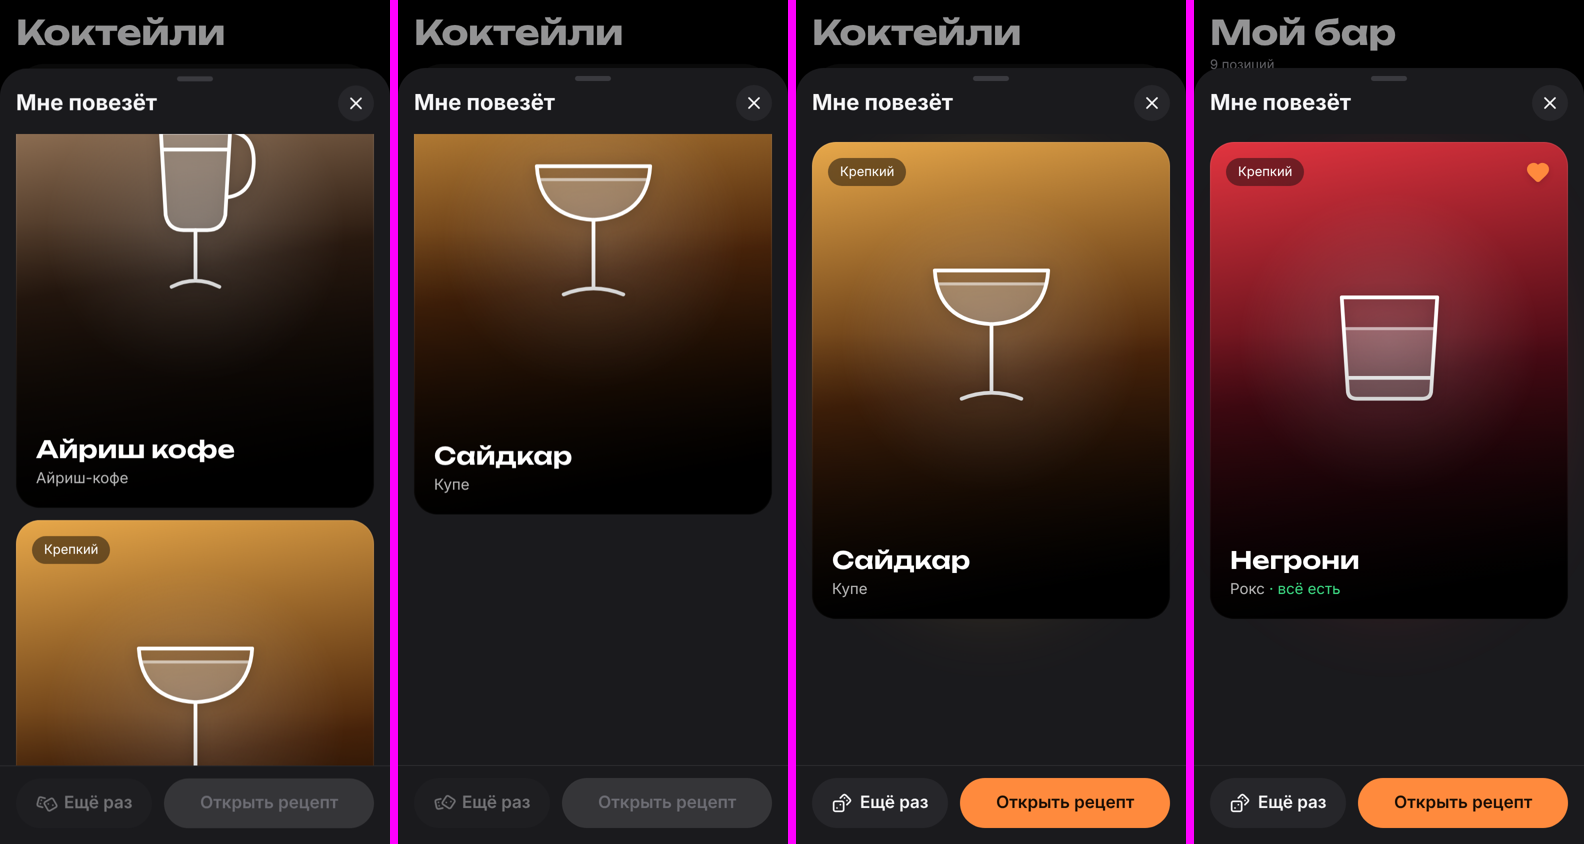
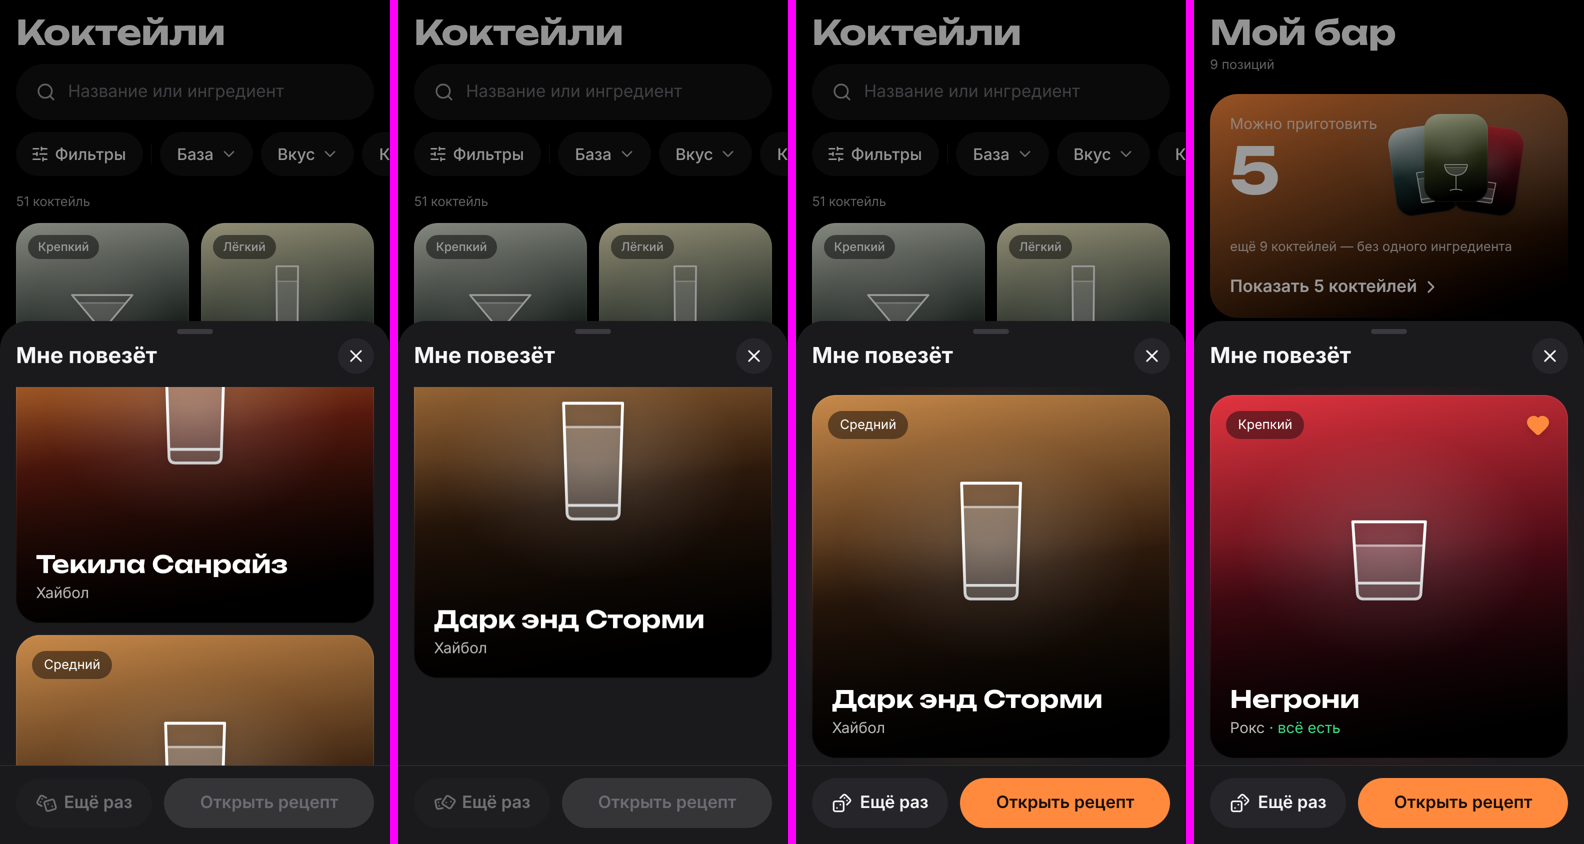
«Мне повезёт»: карточка на всю ширину, но прежней высоты
- h-lucky-card (min(400, 62svh − 160)) вместо 3:4 — карточка не огромная, шторка снова medium.

Claude-Session: https://claude.ai/code/session_01CTSLijoM8Di1TL7d1o52Nz

diff --git a/src/components/ui/LuckyReel.tsx b/src/components/ui/LuckyReel.tsx
@@ -22,7 +22,8 @@ const SPIN_MS = 900;
 const reduced = () => typeof window !== 'undefined' && window.matchMedia?.('(prefers-reduced-motion: reduce)').matches;
 
 /**
- * «Мне повезёт» — барабан **карточками**: та же карточка, что в каталоге (CocktailCard large), на всю ширину.
+ * «Мне повезёт» — барабан **карточками**: та же карточка, что в каталоге (CocktailCard large), на всю ширину,
+ * высота — `h-lucky-card` (не 3:4: иначе карточка огромная).
  * Спин — отдельные карточки с зазором 12 проезжают сверху вниз ~900 мс (видны целиком, не в окне) и тормозят
  * с перелётом и отскоком (--ease-spring); за выпавшей — свечение цветом напитка. Один вариант — «pop»;
  * reduced-motion — без анимации. Лента прижата низом: остальные карточки выше выпавшей (не растят прокрутку).
@@ -74,14 +75,14 @@ export function LuckyReel({ current, strip, spinKey, onSettle, onSpin, isAvailab
   const frameStyle = frame !== undefined ? { transform: `translateY(calc(${(1 - frame) * (frames.length - 1)} * (100% / ${frames.length} + ${GAP / frames.length}px)))` } : undefined;
 
   return (
-    <div className="relative aspect-card w-full">
+    <div className="h-lucky-card relative w-full">
       {/* свечение цветом напитка — проявляется после остановки */}
       {settled && <span key={`${spinKey}-${current.id}`} className="lucky-glow absolute -inset-6" style={coverStyle(current)} aria-hidden />}
       <div className={cn('relative h-full', spinning && 'pointer-events-none')}>
         {/* лента прижата низом: последняя (выпавшая) — на месте карточки, остальные выше */}
         <div ref={reel} className="absolute inset-x-0 bottom-0 flex flex-col" style={{ gap: GAP, ...frameStyle }}>
           {shown.map((c, i) => (
-            <div key={`${c.id}-${i}`} className={cn('aspect-card w-full', settled && strip.length === 0 && frame === undefined && 'motion-safe:animate-card-pop')}>
+            <div key={`${c.id}-${i}`} className={cn('h-lucky-card w-full', settled && strip.length === 0 && frame === undefined && 'motion-safe:animate-card-pop')}>
               <CocktailCard
                 cocktail={c}
                 large
@@ -89,7 +90,7 @@ export function LuckyReel({ current, strip, spinKey, onSettle, onSpin, isAvailab
                 tabIndex={settled ? undefined : -1}
                 available={isAvailable?.(c)}
                 favorite={isFavorite?.(c)}
-                className="h-full"
+                className="aspect-auto! h-full"
               />
             </div>
           ))}

diff --git a/src/styles/index.css b/src/styles/index.css
@@ -334,6 +334,10 @@
 @utility animate-pop {
   animation: pop 200ms var(--ease-soft);
 }
+/* карточка «Мне повезёт»: на всю ширину, высота — как была (влезает в шторку medium с футером) */
+@utility h-lucky-card {
+  height: min(400px, calc(62svh - 160px));
+}
 /* бросок кубика 🎲 */
 @keyframes roll {
   to {

diff --git a/src/components/LuckySheet.tsx b/src/components/LuckySheet.tsx
@@ -65,7 +65,6 @@ export function LuckySheet({ open, onClose, pool, caption, onOpenRecipe, empty, 
       onClose={onClose}
       inline={inline}
       title="Мне повезёт"
-      initialDetent="large"
       footer={
         top ? (
           <SheetFooter>

diff --git a/.claude/skills/design-system/SKILL.md b/.claude/skills/design-system/SKILL.md
@@ -552,8 +552,8 @@ _Пополняется командой `/ref`._
 **«Мне повезёт» v2 (Шаг 15):**
 - 🎲 в таб-баре — круг 48 `tile-strong` на стекле, иконка `fg` (не белая заливка: не читается как выбранный таб);
   на тап — «бросок» (`animate-roll`, оборот 450 мс).
-- Шторка (large): **без подписи** (только для скринридера) + **`LuckyReel`** — та же `CocktailCard` каталога
-  (`large`) **на всю ширину**. Спин **карточками**: отдельные карточки с зазором 12 проезжают сверху вниз 900 мс
+- Шторка (medium): **без подписи** (только для скринридера) + **`LuckyReel`** — та же `CocktailCard` каталога
+  (`large`) **на всю ширину, высотой `h-lucky-card`** (min(400, 62svh − 160); не 3:4 — карточка становилась огромной). Спин **карточками**: отдельные карточки с зазором 12 проезжают сверху вниз 900 мс
   (видны целиком, обрезаются только краем шторки), тормозят с перелётом (`--ease-spring`); лента прижата низом —
   лишние карточки выше выпавшей и не растят прокрутку. Свечение `lucky-glow`; один вариант — `animate-card-pop`;
   reduced-motion — без анимации. «Ещё раз» — новый спин без повторов, кубик крутится, кнопки ждут остановки.

diff --git a/docs/previews/README.md b/docs/previews/README.md
@@ -218,7 +218,7 @@ Chick-fil-A (пустое избранное).
 🎲 в таб-баре — без белой заливки; шторка: кадр спина, выпавшая карточка (та же, что в каталоге),
 в «Моём баре» — из того, что есть дома (с ♥ и «всё есть»).
 
-## Шаг 15b — «Мне повезёт»: карточка на всю ширину, барабан карточками, 2026-10-26
+## Шаг 15b — «Мне повезёт»: карточка на всю ширину (высота прежняя), барабан карточками, 2026-10-26
 
 ![](step15b-lucky-full.png)
 
